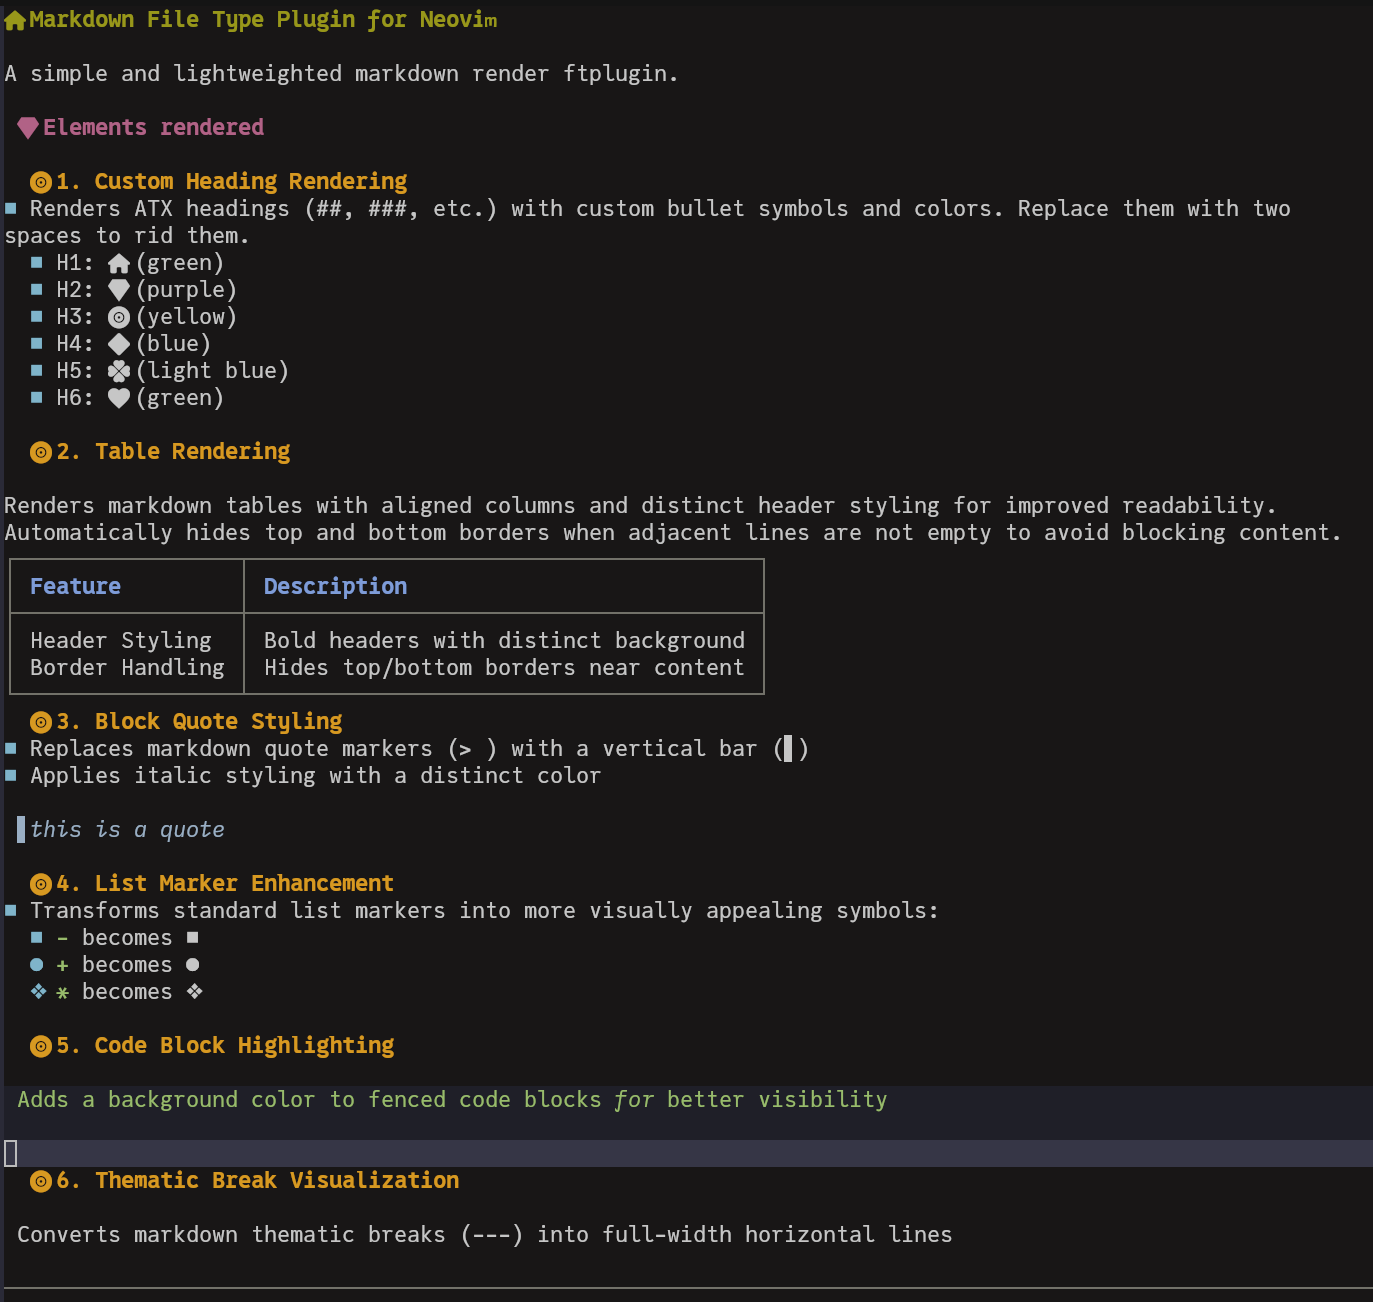
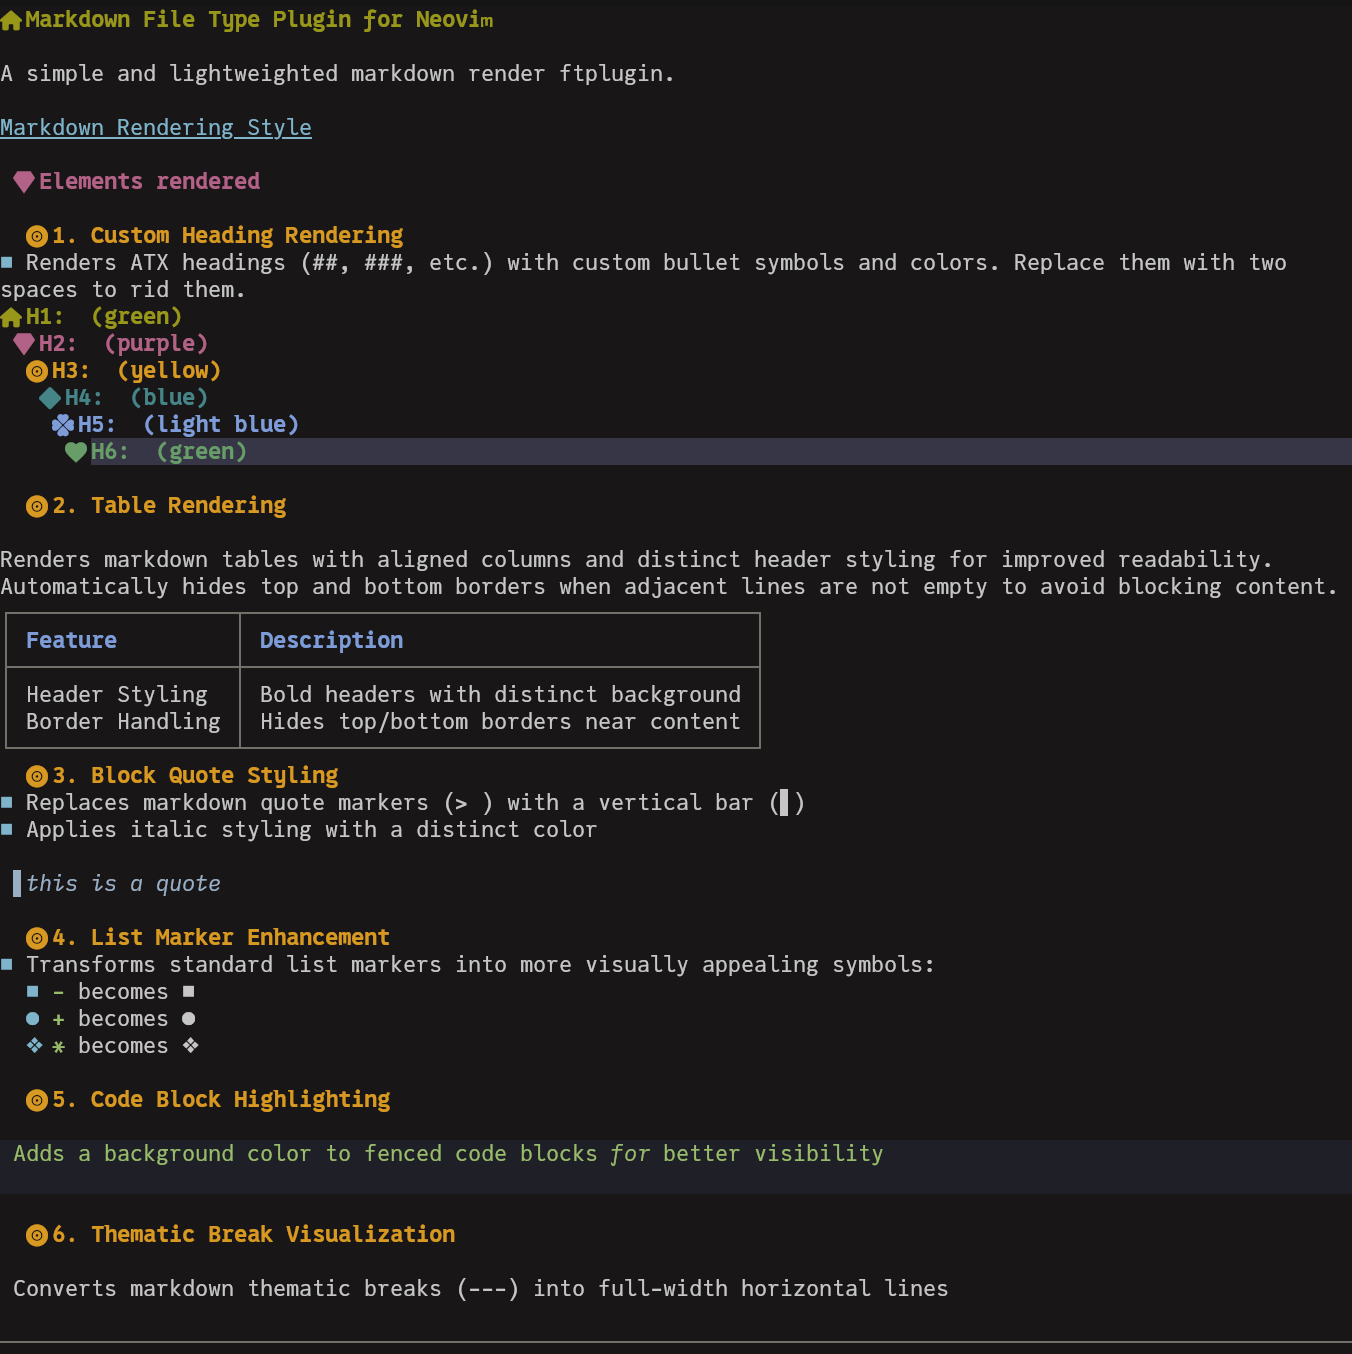
readme fix

diff --git a/README.md b/README.md
@@ -8,12 +8,12 @@ A simple and lightweighted markdown render ftplugin.
 
 ### 1. Custom Heading Rendering
 - Renders ATX headings (##, ###, etc.) with custom bullet symbols and colors. Replace them with two spaces to rid them.
-  - H1:  (green)
-  - H2:  (purple)
-  - H3:  (yellow)
-  - H4:  (blue)
-  - H5:  (light blue)
-  - H6:  (green)
+# H1:  (green)
+## H2:  (purple)
+### H3:  (yellow)
+#### H4:  (blue)
+##### H5:  (light blue)
+###### H6:  (green)
 
 ### 2. Table Rendering
 
